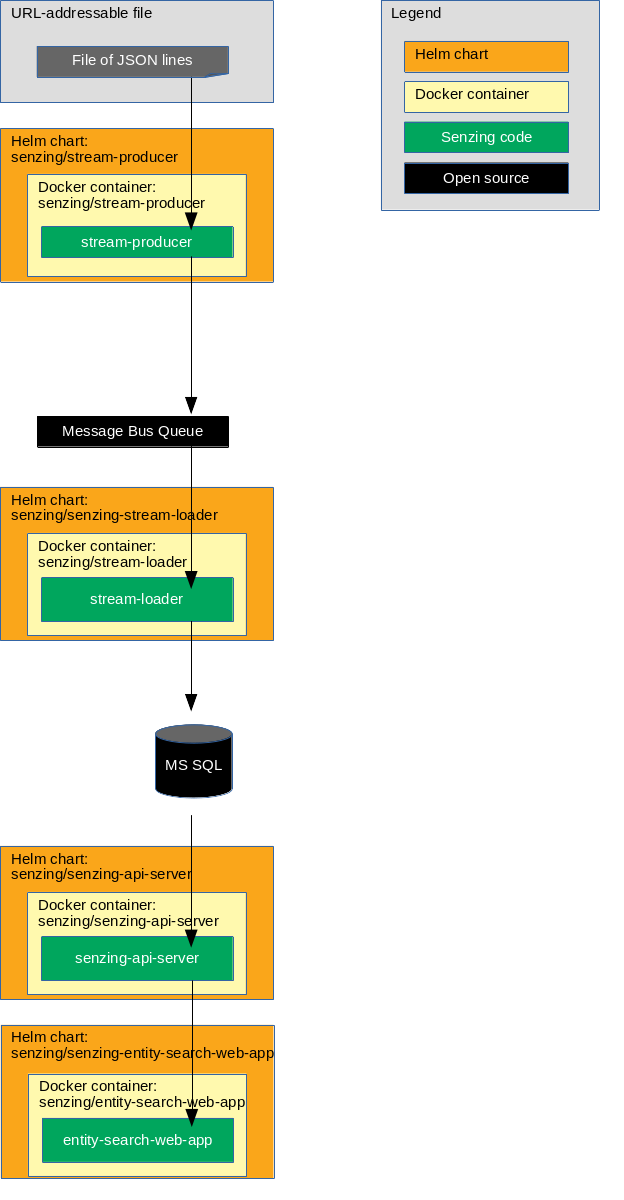
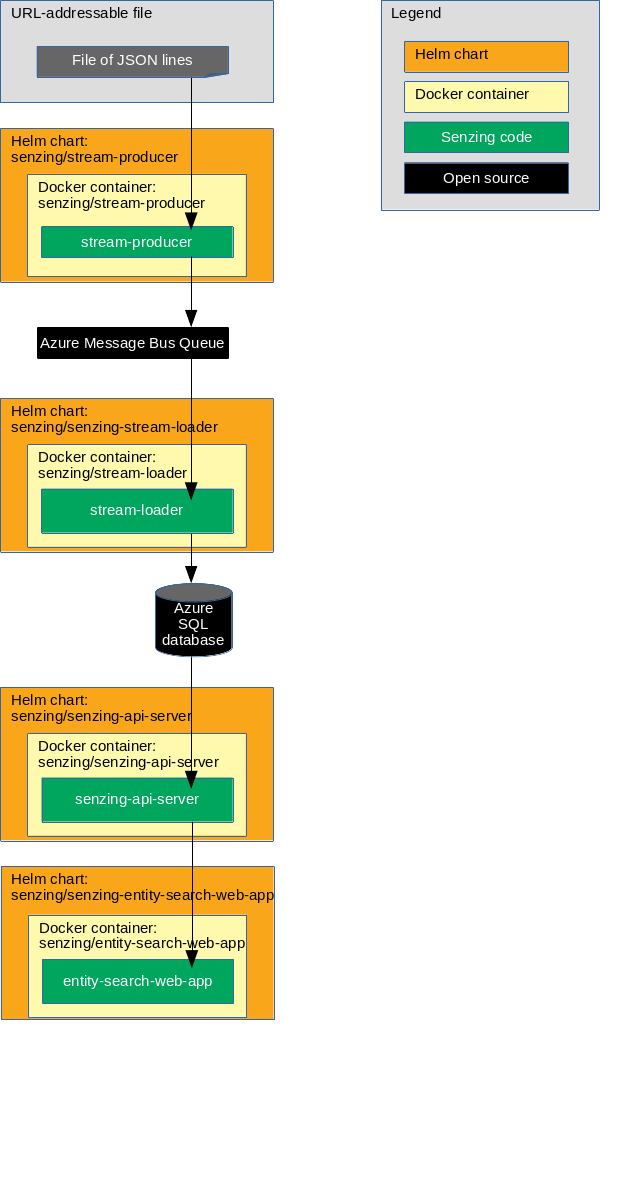
#69 Update image

Changed region(s): [[0.0, 0.2467, 0.4567, 0.9867]]

diff --git a/docs/azure-helm-message-bus-mssql/README.md b/docs/azure-helm-message-bus-mssql/README.md
@@ -10,11 +10,14 @@ This repository illustrates a reference implementation of Senzing using Microft 
 
 The instructions show how to set up a system that:
 
-1. Reads JSON lines from a file on the internet.
-1. Sends each JSON line to a message queue.
-    1. In this implementation, the queue is message queue.
-1. Reads messages from the queue and inserts into Senzing.
-    1. In this implementation, Senzing keeps its data in a Microsoft SQL Database database.
+1. Reads JSON lines from a file on the internet and sends each JSON line to a message queue via the Senzing
+   [stream-producer](https://github.com/Senzing/stream-producer).
+    1. In this implementation, the queue is an
+       [Azure Message Bus](https://azure.microsoft.com/en-us/services/service-bus/) queue.
+1. Reads messages from the queue and inserts into Senzing via the Senzing
+   [stream-loader](https://github.com/Senzing/stream-loader).
+    1. In this implementation, Senzing keeps its data in an
+       [Azure SQL Database](https://azure.microsoft.com/en-us/products/azure-sql/database/#overview) database.
 1. Reads information from Senzing via [Senzing API Server](https://github.com/Senzing/senzing-api-server) server.
 1. Views resolved entities in a [web app](https://github.com/Senzing/entity-search-web-app).
 
@@ -72,7 +75,7 @@ For the most part, instructions are copy and paste.
 Whenever thinking is needed, it's marked with a "thinking" icon :thinking:.
 Whenever customization is needed, it's marked with a "pencil" icon :pencil2:.
 If the instructions are not clear, please let us know by opening a new
-[Documentation issue](https://github.com/Senzing/template-python/issues/new?template=documentation_request.md)
+[Documentation issue](https://github.com/Senzing/kubernetes-demo/issues/new?assignees=&labels=&template=documentation_request.md)
 describing where we can improve.   Now on with the show...
 
 ### Legend

diff --git a/.github/ISSUE_TEMPLATE/documentation_request.md b/.github/ISSUE_TEMPLATE/documentation_request.md
@@ -1,0 +1,26 @@
+---
+name: Documentation request
+about: Identify an area for improvement in documentation
+
+---
+
+**What is the URL of the documentation?**
+
+- **Example:** https://github.com/Senzing/template-docker#external-database
+    - *Note:*  This URL includes the web page and the section of the documentation.
+
+**What can be improved?**
+
+A clear and concise description of what can be improved.
+Examples:
+
+- "I don't understand where the ${XYZ} variable is set."
+- "There seems to be a step missing between 'X' and 'Z'.   I don't know how to get to 'Z'."
+- "When I run `command sub-command ...`  I get the following error:"
+- "I don't know what is meant by 'gerble barb gazoink` in the instructions".
+
+**Additional context**
+
+Add any other context or screenshots to help describe the documentation improvement.
+If you think the documentation improvement is operating system specific,
+please indicate which operating system is being used.
